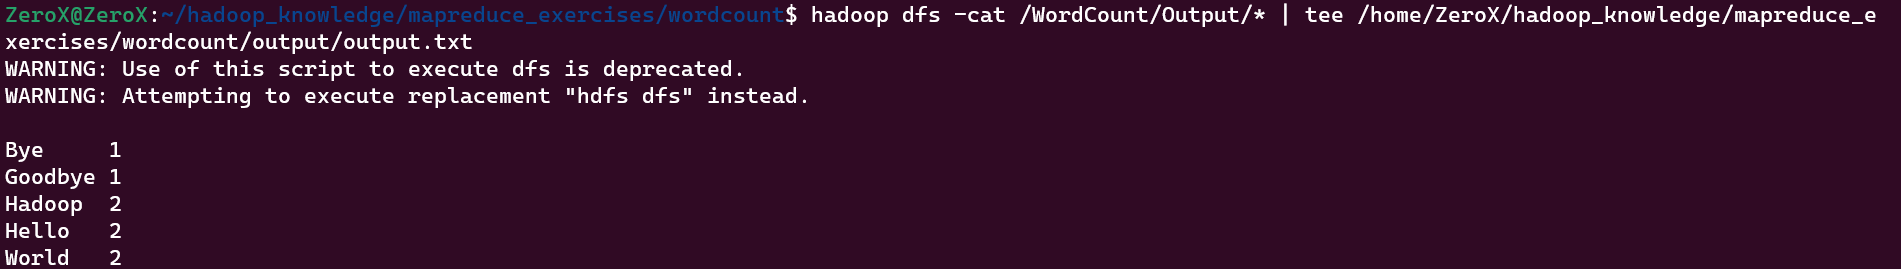
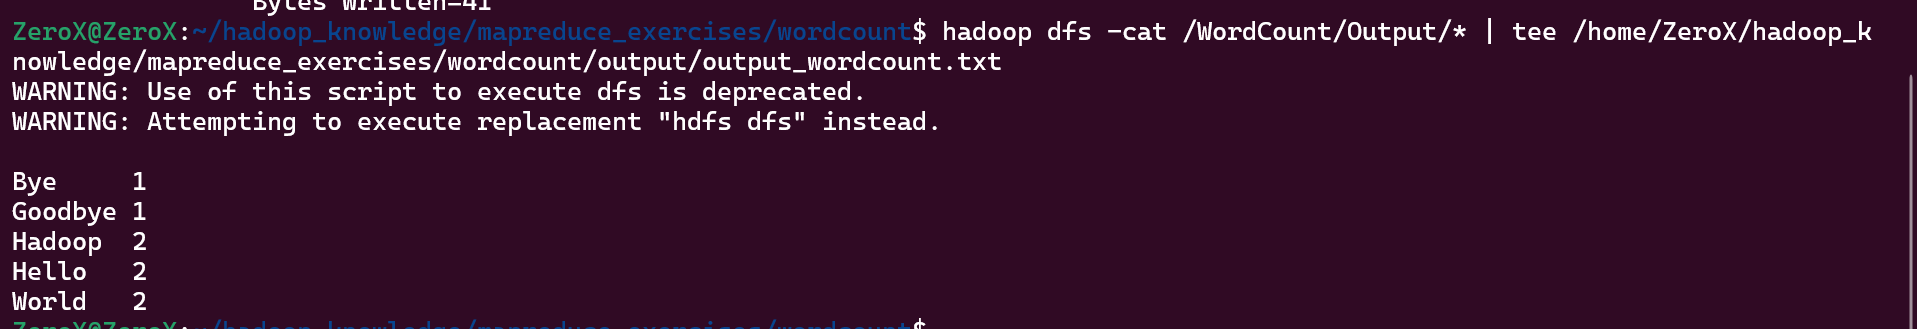
Fix st and init ex_1 mapreduce

diff --git a/mapreduce_exercises/ex_1/Ex_1.java b/mapreduce_exercises/ex_1/Ex_1.java
@@ -1,0 +1,59 @@
+package wordcount;
+
+import java.io.IOException;
+import java.util.StringTokenizer;
+
+import org.apache.hadoop.conf.Configuration;
+import org.apache.hadoop.fs.Path;
+import org.apache.hadoop.io.IntWritable;
+import org.apache.hadoop.io.Text;
+import org.apache.hadoop.mapreduce.Job;
+import org.apache.hadoop.mapreduce.Mapper;
+import org.apache.hadoop.mapreduce.Reducer;
+import org.apache.hadoop.mapreduce.lib.input.FileInputFormat;
+import org.apache.hadoop.mapreduce.lib.output.FileOutputFormat;
+
+public class Ex_1 {
+
+  public static class TokenizerMapper extends Mapper<Object, Text, Text, IntWritable>{
+
+    private final static IntWritable one = new IntWritable(1);
+    private Text word = new Text();
+
+    public void map(Object key, Text value, Context context) throws IOException, InterruptedException {
+      String line = value.toString();
+      String[] vertice
+      while (itr.hasMoreTokens()) {
+        word.set(itr.nextToken());
+        context.write(word, one);
+      }
+    }
+  }
+
+  public static class IntSumReducer extends Reducer<Text,IntWritable,Text,IntWritable> {
+    private IntWritable result = new IntWritable();
+
+    public void reduce(Text key, Iterable<IntWritable> values, Context context) throws IOException, InterruptedException {
+      int sum = 0;
+      for (IntWritable val : values) {
+        sum += val.get();
+      }
+      result.set(sum);
+      context.write(key, result);
+    }
+  }
+
+  public static void main(String[] args) throws Exception {
+    Configuration conf = new Configuration();
+    Job job = Job.getInstance(conf, "WordCount");
+    job.setJarByClass(WordCount.class);
+    job.setMapperClass(TokenizerMapper.class);
+    job.setCombinerClass(IntSumReducer.class);
+    job.setReducerClass(IntSumReducer.class);
+    job.setOutputKeyClass(Text.class);
+    job.setOutputValueClass(IntWritable.class);
+    FileInputFormat.addInputPath(job, new Path(args[0]));
+    FileOutputFormat.setOutputPath(job, new Path(args[1]));
+    System.exit(job.waitForCompletion(true) ? 0 : 1);
+  }
+}

diff --git a/Mapreduce_Process.md b/Mapreduce_Process.md
@@ -4,7 +4,7 @@ All step about how to run the MapReduce program in Hadoop.
 
 ## 1. Basic interaction with hadoop
 ### 1.1. Remove file in hadoop: 
-hadoop fs -rm -r /WordCount
+    hadoop fs -rm -r /WordCount
 ### 1.2. Rename varible HADOOP_CLASSPATH in terminal
     export HADOOP_CLASSPATH=$(hadoop classpath)
 #### =>Check again:  
@@ -13,7 +13,7 @@ hadoop fs -rm -r /WordCount
     hadoop fs -mkdir /WordCount
     hadoop fs -mkdir /WordCount/Input
 ### 1.4. Put file into a directory in hadoop: 
-    hadoop fs -put '/home/ZeroX/hadoop_knowledge/mapreduce_exercises/wordcount/input/wordcount.txt' /WordCount/Input 
+    hadoop fs -put '/home/ZeroX/hadoop_knowledge/mapreduce_exercises/wordcount/input/input_wordcount.txt' /WordCount/Input 
 
 ## 2. Run MapReduce program
 ### 2.1. Compile Java code: 
@@ -28,5 +28,5 @@ hadoop fs -rm -r /WordCount
 ### 2.3. Run file.jar in hadoop with input
     hadoop jar '/home/ZeroX/hadoop_knowledge/mapreduce_exercises/wordcount/WordCount.jar' WordCount /WordCount/Input /WordCount/Output
 ### 2.4. Result of MapReduce Program: 
-    hadoop dfs -cat /WordCount/Output/* | tee /home/ZeroX/hadoop_knowledge/mapreduce_exercises/wordcount/output/output.txt
+    hadoop dfs -cat /WordCount/Output/* | tee /home/ZeroX/hadoop_knowledge/mapreduce_exercises/wordcount/output/output_wordcount.txt
 ![Result MapReduce](images/Result_MapReduce.png)

diff --git a/mapreduce_exercises/ex_1/paraphrase.md b/mapreduce_exercises/ex_1/paraphrase.md
@@ -1,0 +1,9 @@
+# Exercise 1: 
+## Format input: 
+    (src) (des)
+## Condition: 
++ count(src) > count(des): pos
++ count(src) = count(des): eq
++ count(src) < count(des): neg
+## Example          
+![Paraphrase Ex 1](/images/Paraphrase_Ex_1.png)
